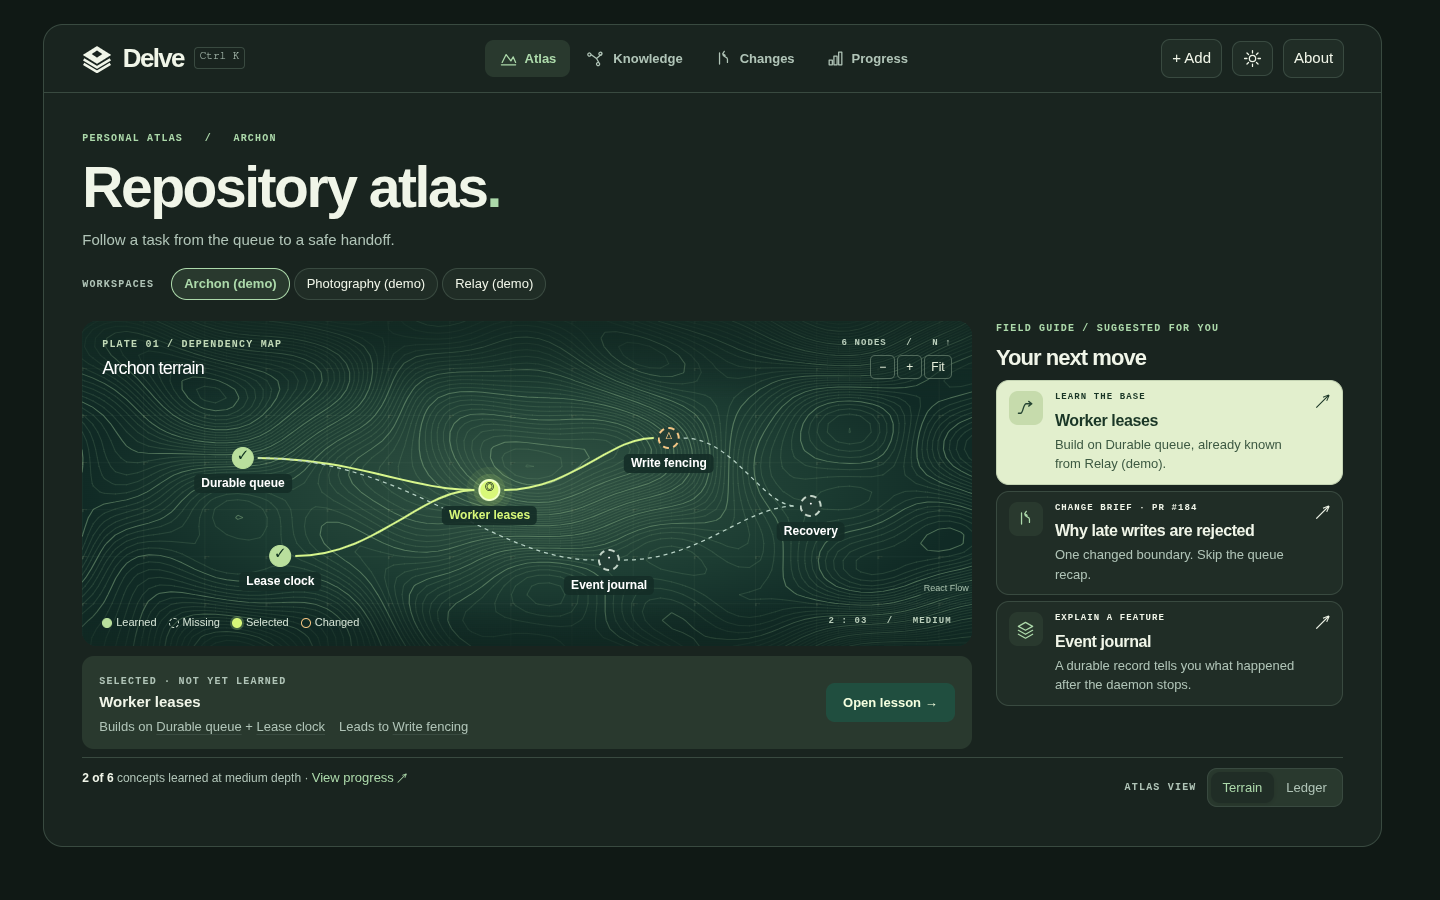
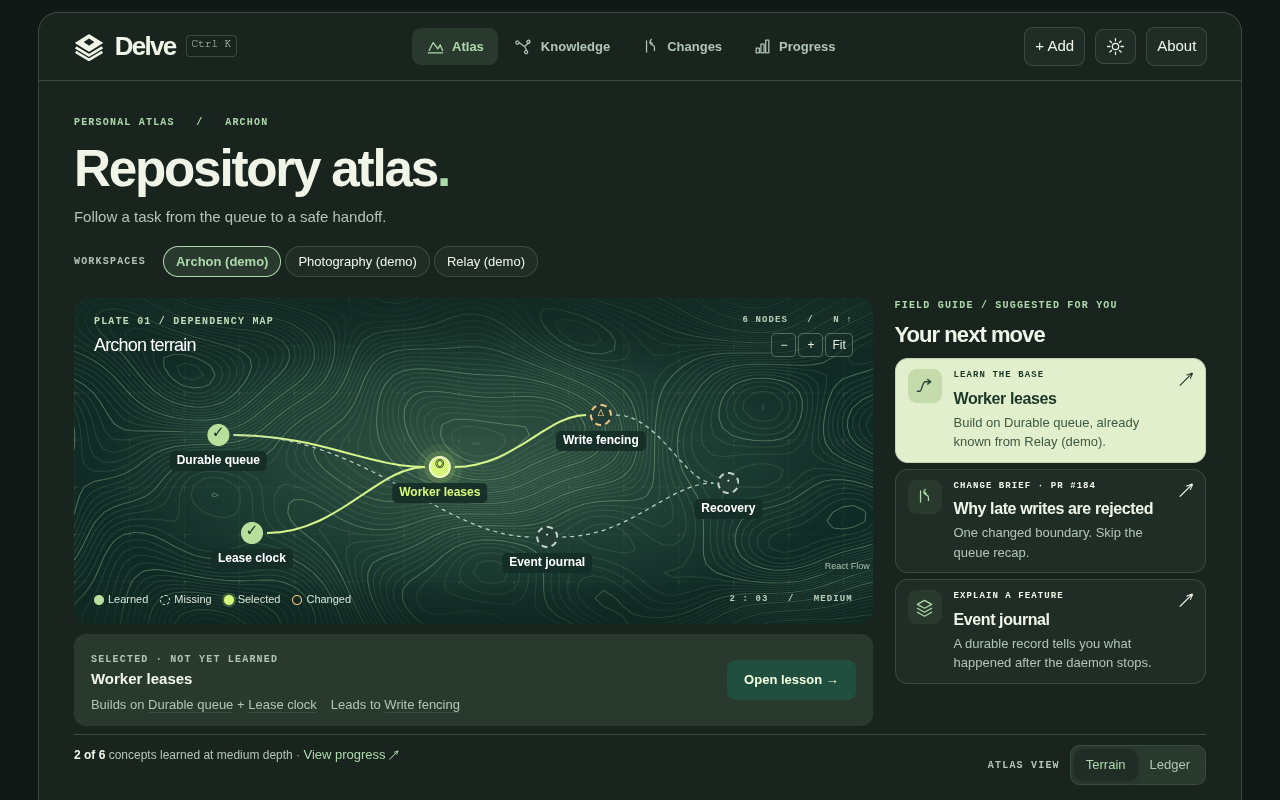
fix: align shell spacing and add Linux CI entry point

diff --git a/tests/smoke/shell.spec.ts b/tests/smoke/shell.spec.ts
@@ -1,0 +1,28 @@
+import { expect } from '@playwright/test';
+import { test } from './desktop';
+
+test('keeps the shell inset and document scrolling usable in both themes', async ({ desktop: { page, application } }) => {
+  await application.evaluate(({ BrowserWindow }) => BrowserWindow.getAllWindows()[0]!.setContentSize(1280, 800));
+  await expect(page.locator('.react-flow__node')).toHaveCount(6);
+  for (const theme of ['light', 'dark'] as const) {
+    await page.emulateMedia({ colorScheme: theme, reducedMotion: 'reduce' });
+    await expect(page.locator('html')).toHaveAttribute('data-theme', theme);
+    expect(await page.locator('.shell').evaluate(element => element.getBoundingClientRect().top)).toBe(12);
+    expect(await page.evaluate(() => innerWidth - document.documentElement.clientWidth)).toBe(0);
+    if (process.env.SHELL_CAPTURE) await page.screenshot({ path: `.archon/evidence/${process.env.SHELL_CAPTURE}-${theme}.png` });
+  }
+  await page.mouse.move(1250, 400);
+  await page.mouse.wheel(0, 700);
+  await expect.poll(() => page.evaluate(() => scrollY)).toBeGreaterThan(0);
+  await page.keyboard.press('Home');
+  await expect.poll(() => page.evaluate(() => scrollY)).toBe(0);
+  await page.keyboard.press('End');
+  await expect.poll(() => page.evaluate(() => scrollY)).toBeGreaterThan(0);
+  for (const name of ['Terrain', 'Ledger']) {
+    const control = page.getByRole('button', { name, exact: true });
+    await control.scrollIntoViewIfNeeded();
+    await expect(control).toBeInViewport({ ratio: 1 });
+    await control.click();
+    await expect(control).toHaveAttribute('aria-pressed', 'true');
+  }
+});

diff --git a/src/renderer/src/styles.css b/src/renderer/src/styles.css
@@ -8,7 +8,7 @@
   --motion-page: 200ms;
   --ease-out: cubic-bezier(0.2, 0.7, 0.2, 1);
 }
-html { scrollbar-gutter: stable; }
+html::-webkit-scrollbar { width: 0; height: 0; }
 body { padding-bottom: 24px; }
 .brand { border: 0; padding: 0; background: transparent; }
 button { transition: background-color var(--motion-fast), border-color var(--motion-fast), filter var(--motion-fast); }

diff --git a/src/renderer/src/design/foundation.css b/src/renderer/src/design/foundation.css
@@ -187,7 +187,7 @@ svg {
   margin: auto;
 }
 .shell {
-  margin-top: 24px;
+  margin-top: 12px;
   border: 1px solid var(--rule);
   background: var(--surface);
   border-radius: 20px;

diff --git a/docs/ux-audit.md b/docs/ux-audit.md
@@ -45,6 +45,10 @@ Next lesson is recommended only after mastery. After a skip, the learner can kee
 
 The mockup's separate Atlas destination remains available through the persistent Atlas action. The change page's Teach action opens the lesson directly in one click; the footprint also opens its concept lesson directly. In repository change briefs, mapped lines and concepts still open the corresponding Atlas focus.
 
+## Shell spacing and scrolling
+
+The desktop shell starts 12px below the window edge, bringing its outer inset closer to the approved mockup. The document scrollbar no longer reserves a grey rail; native wheel, touchpad and keyboard scrolling remain available. This preserves the existing map height and navigation while giving the shell its full right margin.
+
 ## Verification
 
 The map retains a small, muted React Flow attribution in both themes. Delve and React Flow are MIT-licensed; [React Flow's attribution policy](https://reactflow.dev/remove-attribution) asks projects that remove the badge to subscribe. Keeping it acknowledges the library while fitting the Contour map, unlike the unbadged mockup.

diff --git a/README.md b/README.md
@@ -130,6 +130,7 @@ npm run dev       # start the app with hot reload
 
 | Script | What it does |
 | --- | --- |
+| `./scripts/ci.sh` | Run Linux lint, typecheck, unit and provider tests, build, and desktop smoke serially (uses Xvfb when available) |
 | `npm run lint` | ESLint over the whole project |
 | `npm run typecheck` | TypeScript for main/preload and for the renderer |
 | `npm test` | Vitest unit tests (database, IPC, security guards, provider runner with a fake CLI) |
